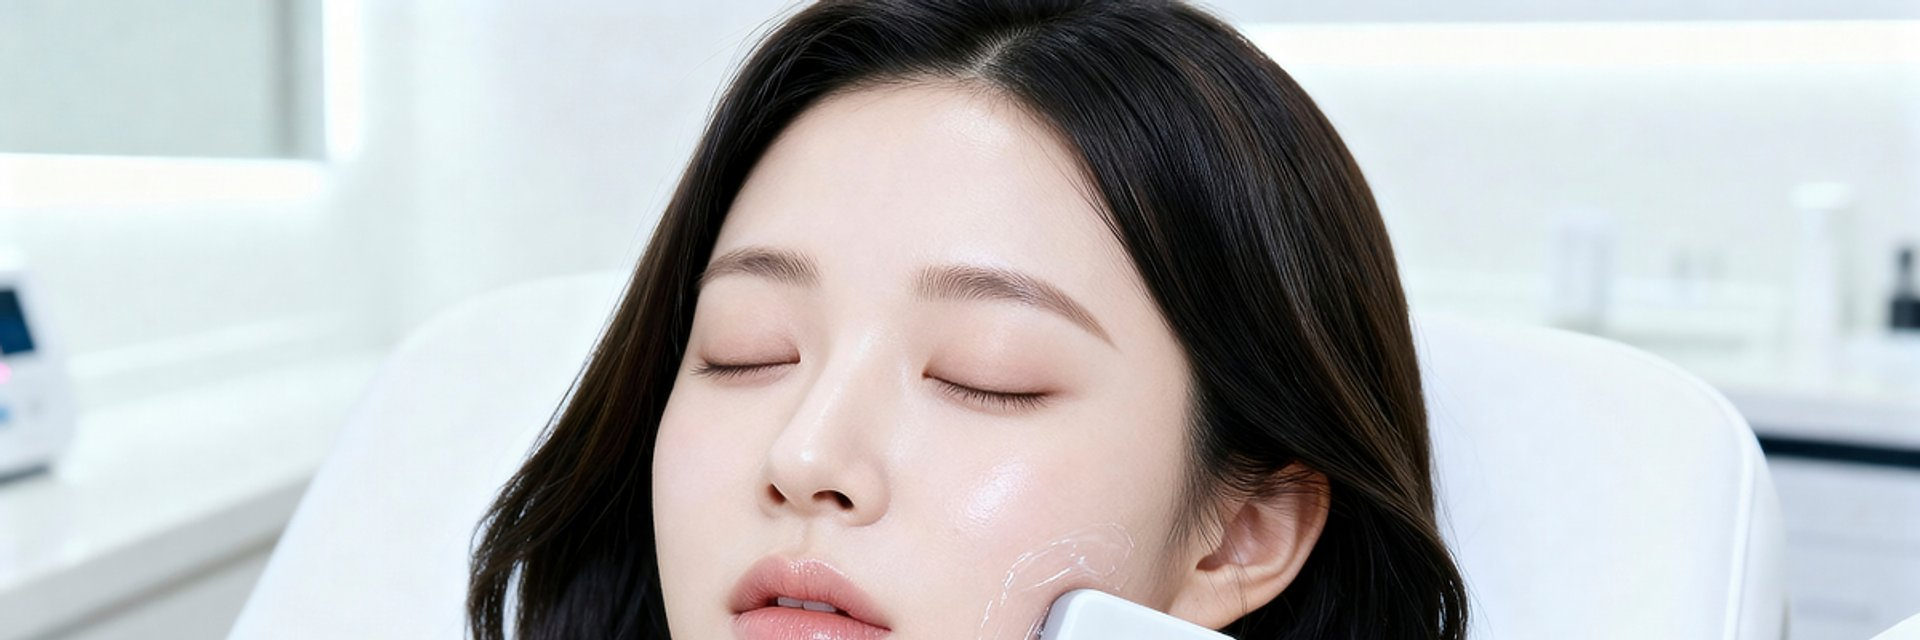
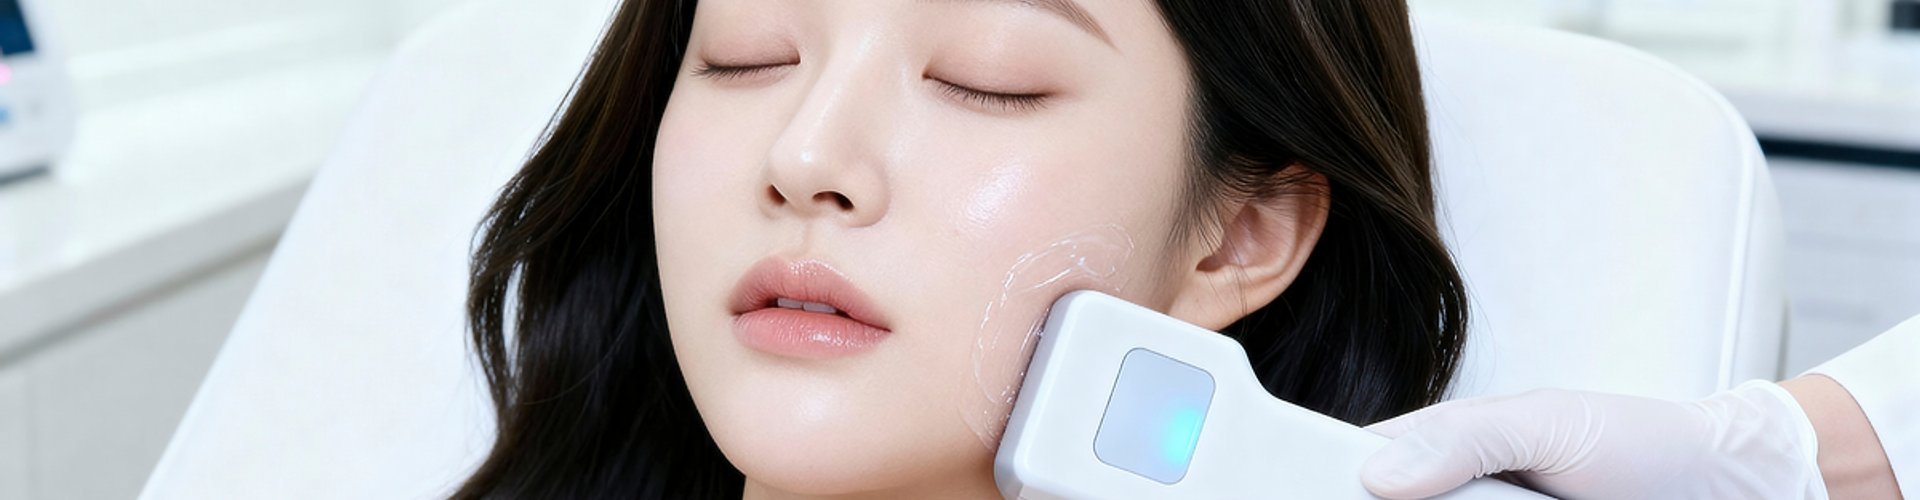
fix: 모델 얼굴 보이도록 이미지 리사이즈 + 배너 높이 확대

diff --git a/src/components/BeautyMoodBanner.tsx b/src/components/BeautyMoodBanner.tsx
@@ -10,7 +10,7 @@ export default function BeautyMoodBanner({
   titleEn = "Experience the Difference",
   subKo = "한국 피부과 전문의가 추천하는 맞춤 시술",
   subEn = "Personalized treatments recommended by Korean dermatologists",
-  height = "h-[200px] sm:h-[240px]",
+  height = "h-[260px] sm:h-[320px]",
 }: {
   image?: string;
   titleKo?: string;

diff --git a/src/components/BeautyBanner.tsx b/src/components/BeautyBanner.tsx
@@ -10,7 +10,7 @@ export default function BeautyBanner() {
   const isKo = locale === "ko";
 
   return (
-    <section className="relative w-full h-[320px] sm:h-[360px] overflow-hidden">
+    <section className="relative w-full h-[360px] sm:h-[420px] overflow-hidden">
       {/* 배경 이미지 */}
       <Image
         src="/hero/model1.jpg"
